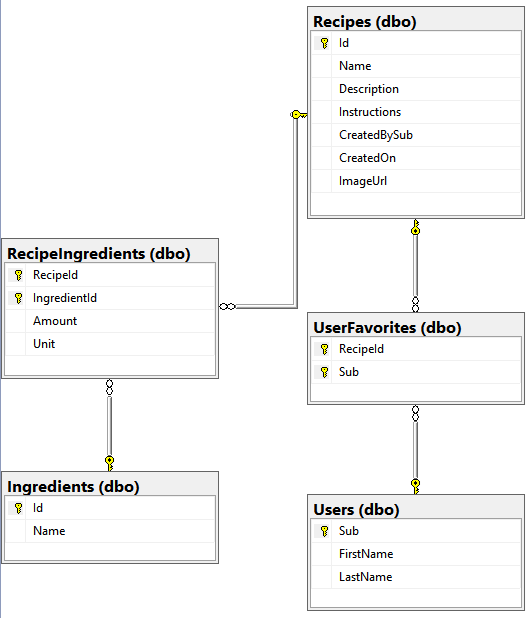
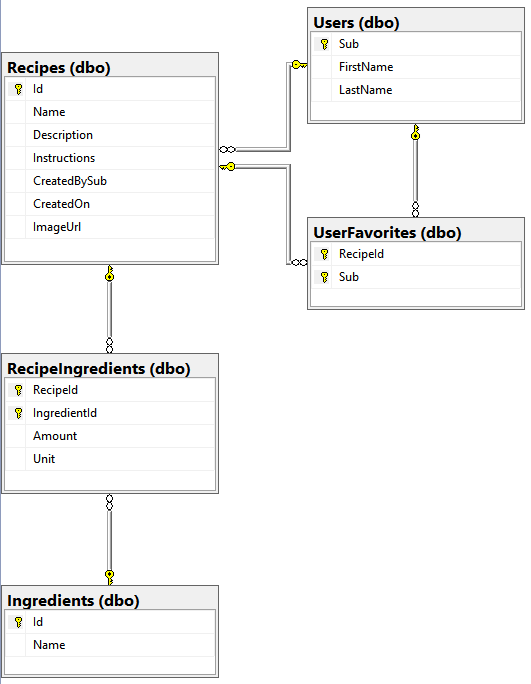
add foreign key

diff --git a/RecipeLibraryEF/Migrations/20250106183827_AddCreatedByForeignKey.cs b/RecipeLibraryEF/Migrations/20250106183827_AddCreatedByForeignKey.cs
@@ -1,0 +1,36 @@
+using Microsoft.EntityFrameworkCore.Migrations;
+
+#nullable disable
+
+namespace RecipeLibraryEF.Migrations
+{
+    public partial class AddCreatedByForeignKey : Migration
+    {
+        protected override void Up(MigrationBuilder migrationBuilder)
+        {
+            migrationBuilder.CreateIndex(
+                name: "IX_Recipes_CreatedBySub",
+                table: "Recipes",
+                column: "CreatedBySub");
+
+            migrationBuilder.AddForeignKey(
+                name: "FK_Recipes_Users_CreatedBySub",
+                table: "Recipes",
+                column: "CreatedBySub",
+                principalTable: "Users",
+                principalColumn: "Sub",
+                onDelete: ReferentialAction.Restrict);
+        }
+
+        protected override void Down(MigrationBuilder migrationBuilder)
+        {
+            migrationBuilder.DropForeignKey(
+                name: "FK_Recipes_Users_CreatedBySub",
+                table: "Recipes");
+
+            migrationBuilder.DropIndex(
+                name: "IX_Recipes_CreatedBySub",
+                table: "Recipes");
+        }
+    }
+}

diff --git a/RecipeLibraryEF/Migrations/20250106183827_AddCreatedByForeignKey.Designer.cs b/RecipeLibraryEF/Migrations/20250106183827_AddCreatedByForeignKey.Designer.cs
@@ -3,6 +3,7 @@ using System;
 using Microsoft.EntityFrameworkCore;
 using Microsoft.EntityFrameworkCore.Infrastructure;
 using Microsoft.EntityFrameworkCore.Metadata;
+using Microsoft.EntityFrameworkCore.Migrations;
 using Microsoft.EntityFrameworkCore.Storage.ValueConversion;
 using RecipeLibraryEF.DataAccess;
 
@@ -11,9 +12,10 @@ using RecipeLibraryEF.DataAccess;
 namespace RecipeLibraryEF.Migrations
 {
     [DbContext(typeof(RecipeContext))]
-    partial class RecipeContextModelSnapshot : ModelSnapshot
+    [Migration("20250106183827_AddCreatedByForeignKey")]
+    partial class AddCreatedByForeignKey
     {
-        protected override void BuildModel(ModelBuilder modelBuilder)
+        protected override void BuildTargetModel(ModelBuilder modelBuilder)
         {
 #pragma warning disable 612, 618
             modelBuilder

diff --git a/RecipeLibraryEF/Models/Entities/Recipe.cs b/RecipeLibraryEF/Models/Entities/Recipe.cs
@@ -1,4 +1,5 @@
 using System.ComponentModel.DataAnnotations;
+using System.ComponentModel.DataAnnotations.Schema;
 using System.Text.Json.Serialization;
 
 namespace RecipeLibraryEF.Models.Entities;
@@ -36,4 +37,8 @@ public class Recipe
     //Navigation property
     [JsonIgnore(Condition = JsonIgnoreCondition.WhenWritingNull)]
     public List<UserFavorite> UserFavorites { get; set; }
+
+    //Navigation property
+    [ForeignKey("CreatedBySub")]
+    public User CreatedBy { get; set; }
 }

diff --git a/RecipeLibraryEF/DataAccess/RecipeContext.cs b/RecipeLibraryEF/DataAccess/RecipeContext.cs
@@ -17,6 +17,12 @@ public class RecipeContext: DbContext
 
     protected override void OnModelCreating(ModelBuilder modelBuilder)
     {
+        modelBuilder.Entity<Recipe>()
+            .HasOne(r => r.CreatedBy)
+            .WithMany(u => u.CreatedRecipes)
+            .HasForeignKey(r => r.CreatedBySub)
+            .OnDelete(DeleteBehavior.Restrict);
+
         modelBuilder.Entity<RecipeIngredient>()
             .HasKey(ri => new { ri.RecipeId, ri.IngredientId });
 

diff --git a/RecipeLibraryEF/Models/Entities/User.cs b/RecipeLibraryEF/Models/Entities/User.cs
@@ -16,4 +16,5 @@ public class User
     [Required]
     public string LastName { get; set; }
     public List<UserFavorite> UserFavorites { get; set; }
+    public List<Recipe> CreatedRecipes { get; set; }
 }
